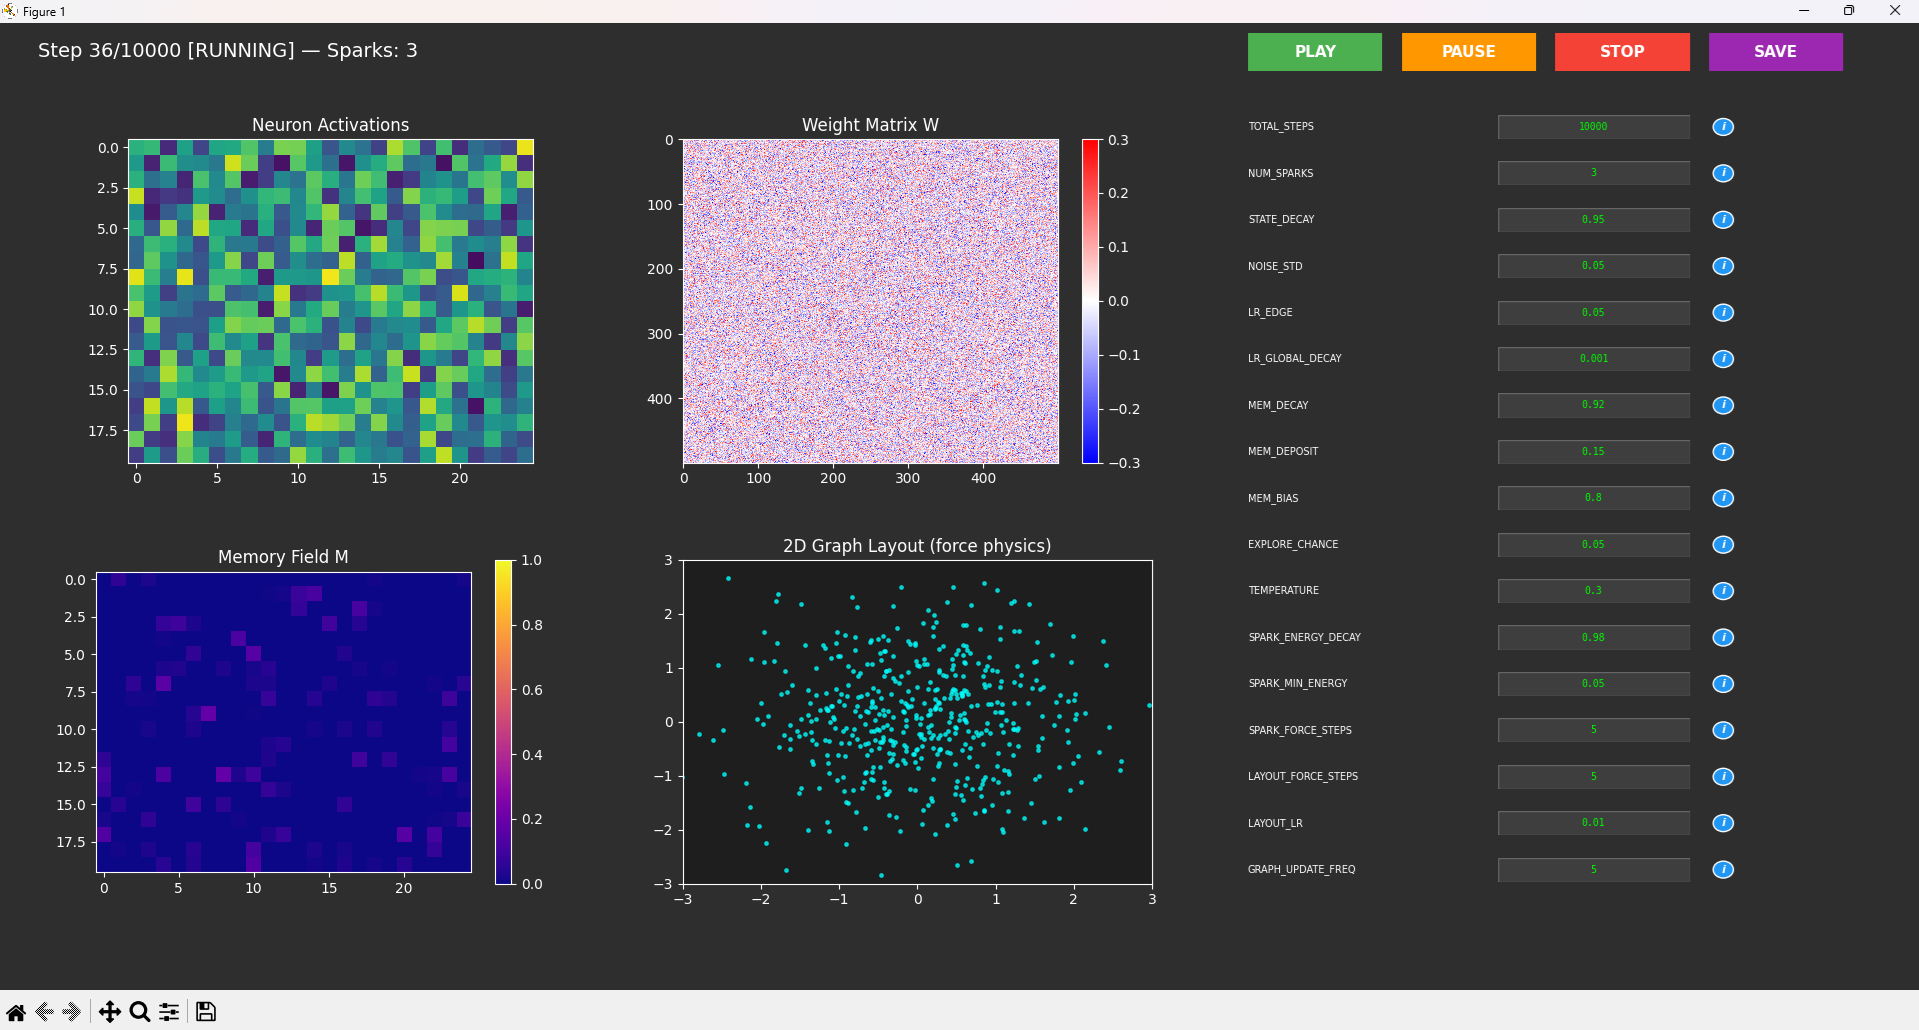
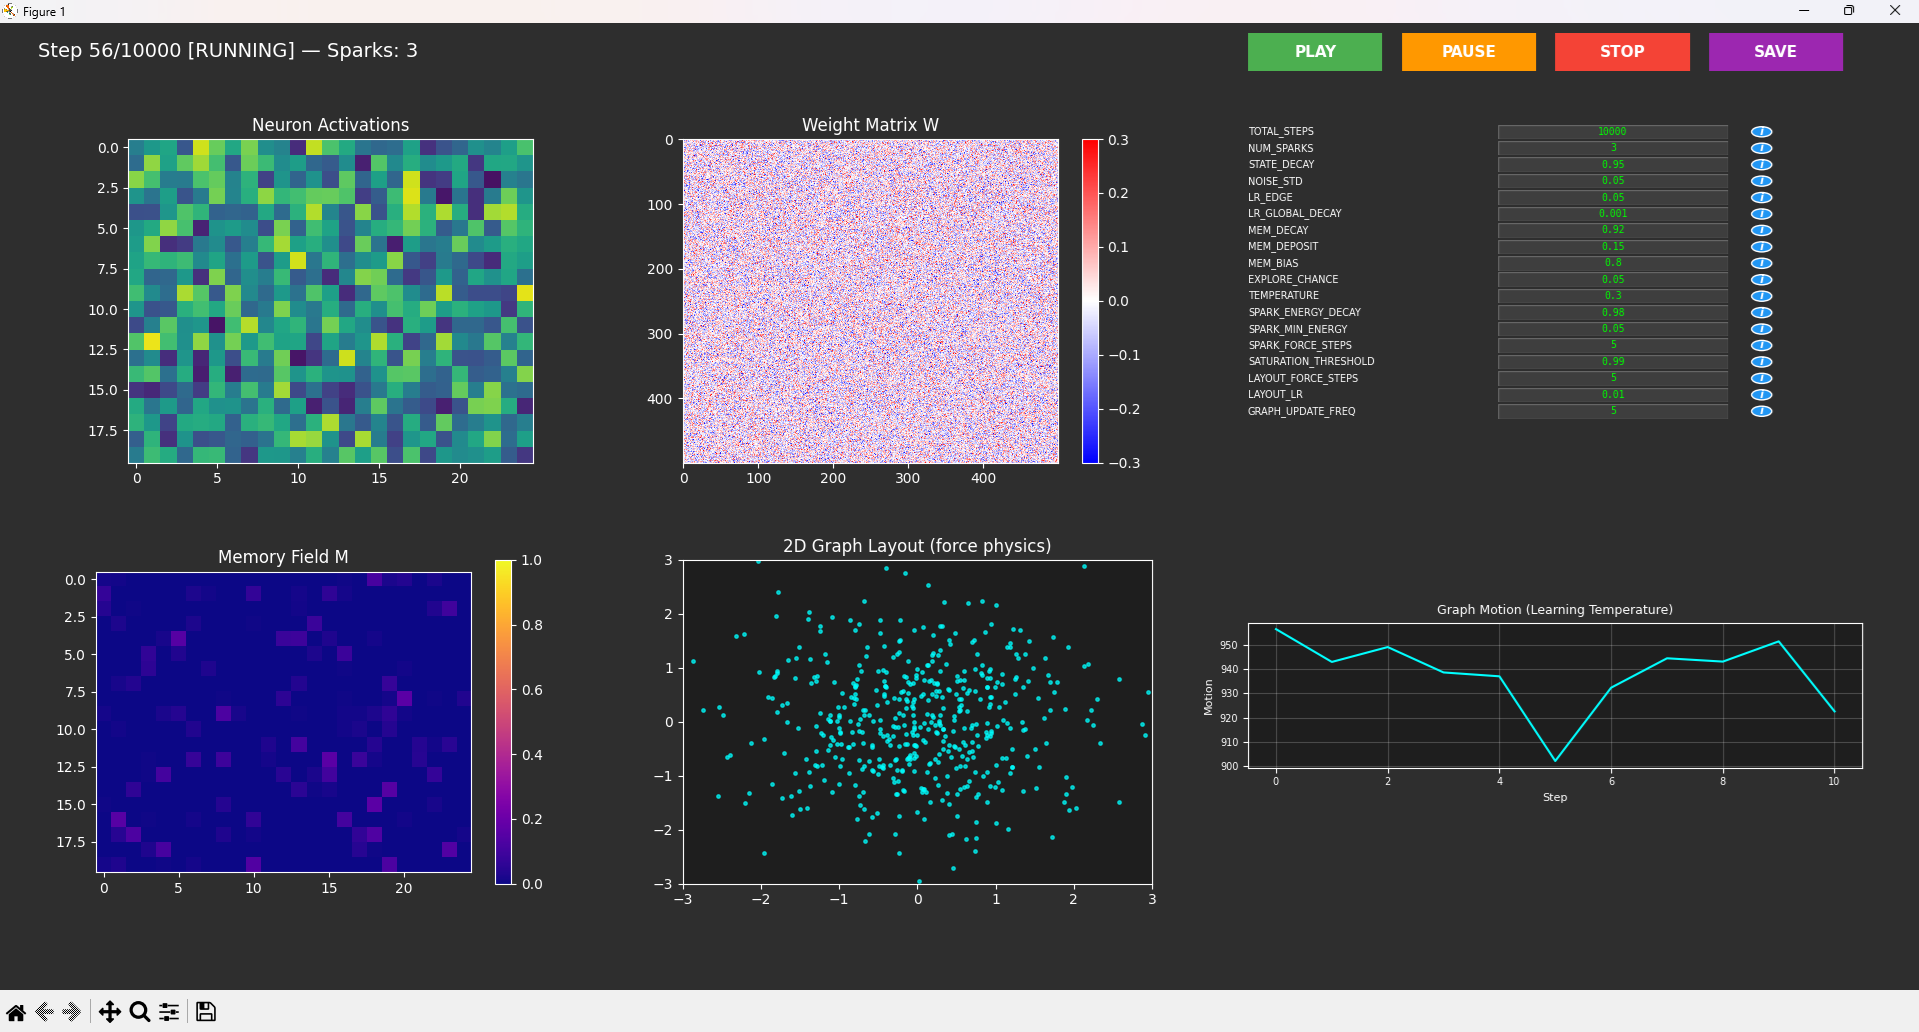
Neuron Saturation + new Visualisation
Spark avoid high weight wis saturated neuron.
new visual

diff --git a/sparknet_alpha.py b/sparknet_alpha.py
@@ -49,6 +49,7 @@ GRAPH_UPDATE_FREQ = 5  # Update graph every N steps
 SPARK_ENERGY_DECAY = 0.98
 SPARK_MIN_ENERGY = 0.05
 SPARK_FORCE_STEPS = 5
+SATURATION_THRESHOLD = 0.99  # Avoid neurons with activation above this value
 
 
 # ===================== FORCE-LAYOUT GRAPH =====================
@@ -101,12 +102,19 @@ class SparkNetAlpha(nn.Module):
         self.spark_energy = torch.ones(k, device=self.device)
         self.spark_age = torch.zeros(k, dtype=torch.long, device=self.device)
 
+        # Graph motion tracking - "Learning Temperature"
+        self.prev_graph_pos = None
+        self.motion_history = []
+
     def reset(self):
         self.s.zero_()
         self.M.zero_()
         self.spark_pos = torch.randint(0, self.n, (self.k,), device=self.device)
         self.spark_energy = torch.ones(self.k, device=self.device)
         self.spark_age = torch.zeros(self.k, dtype=torch.long, device=self.device)
+        # Reset motion tracking
+        self.prev_graph_pos = None
+        self.motion_history = []
 
     def update_spark_count(self, new_k):
         """Update the number of sparks and reinitialize"""
@@ -142,6 +150,11 @@ class SparkNetAlpha(nn.Module):
             # KEY INNOVATION: Combine weights with memory bias
             # Higher memory at target locations makes them more attractive
             logits = base_weights / TEMPERATURE + MEM_BIAS * self.M
+
+            # SATURATION AVOIDANCE: Filter out over-activated neurons
+            # This prevents sparks from repeatedly hitting the same hot spots
+            saturation_mask = self.s < SATURATION_THRESHOLD
+            logits = torch.where(saturation_mask, logits, torch.tensor(-1e9, device=self.device))
 
             # Sometimes ignore everything and explore randomly
             if torch.rand(1, device=self.device).item() < EXPLORE_CHANCE:
@@ -205,6 +218,7 @@ PARAM_INFO = {
     'SPARK_ENERGY_DECAY': 'Energy loss per step (0-1). Lower = sparks die faster',
     'SPARK_MIN_ENERGY': 'Energy threshold for respawn. Higher = respawn sooner',
     'SPARK_FORCE_STEPS': 'Steps a new spark forces full activation. Higher = stronger initial pulse',
+    'SATURATION_THRESHOLD': 'Activation level to avoid (0-1). Sparks skip neurons above this to prevent hot spots',
     'LAYOUT_FORCE_STEPS': 'Physics iterations for graph layout. Lower = faster but less stable',
     'LAYOUT_LR': 'Graph layout movement speed. Higher = faster settling but more jittery',
     'GRAPH_UPDATE_FREQ': 'Update graph every N steps. Lower = smoother animation but more CPU load'
@@ -338,13 +352,14 @@ def setup_controls(fig):
         ('SPARK_ENERGY_DECAY', SPARK_ENERGY_DECAY),
         ('SPARK_MIN_ENERGY', SPARK_MIN_ENERGY),
         ('SPARK_FORCE_STEPS', SPARK_FORCE_STEPS),
+        ('SATURATION_THRESHOLD', SATURATION_THRESHOLD),
         ('LAYOUT_FORCE_STEPS', LAYOUT_FORCE_STEPS),
         ('LAYOUT_LR', LAYOUT_LR),
         ('GRAPH_UPDATE_FREQ', GRAPH_UPDATE_FREQ),
     ]
 
     y_start = 0.88
-    y_step = 0.048  # Compact spacing
+    y_step = 0.017  # Compact with slight spacing
     controls['params'] = {}
     controls['info_boxes'] = {}
     controls['input_boxes'] = {}
@@ -353,13 +368,13 @@ def setup_controls(fig):
         y_pos = y_start - i * y_step
 
         # Parameter label (shorter)
-        ax_label = fig.add_axes([0.65, y_pos, 0.12, 0.025])
+        ax_label = fig.add_axes([0.65, y_pos, 0.12, 0.015])
         ax_label.text(0, 0.5, param_name, ha='left', va='center',
                       color='white', fontsize=7)
         ax_label.axis('off')
 
-        # Value input box (editable background)
-        ax_value = fig.add_axes([0.78, y_pos, 0.10, 0.025])
+        # Value input box (editable background) - wider for numbers
+        ax_value = fig.add_axes([0.78, y_pos, 0.12, 0.015])
         rect = Rectangle((0, 0), 1, 1, facecolor='#3e3e3e', edgecolor='#666666', linewidth=1)
         ax_value.add_patch(rect)
         value_text = ax_value.text(0.5, 0.5, f'{param_value}', ha='center', va='center',
@@ -371,7 +386,7 @@ def setup_controls(fig):
         controls['input_boxes'][param_name] = ax_value
 
         # Info button (smaller)
-        ax_info = fig.add_axes([0.89, y_pos, 0.015, 0.025])
+        ax_info = fig.add_axes([0.91, y_pos, 0.015, 0.015])
         info_circle = mpatches.Circle((0.5, 0.5), 0.35, facecolor='#2196F3',
                                       edgecolor='white', linewidth=1)
         ax_info.add_patch(info_circle)
@@ -394,6 +409,17 @@ def setup_controls(fig):
     ax_popup.axis('off')
     ax_popup.set_visible(False)
     controls['popup'] = (ax_popup, popup_text)
+
+    # Motion plot (aligned with main visualizations bottom) - "Learning Temperature"
+    ax_motion = fig.add_axes([0.65, 0.23, 0.32, 0.15])
+    ax_motion.set_facecolor('#1e1e1e')
+    ax_motion.set_title('Graph Motion (Learning Temperature)', color='white', fontsize=9)
+    ax_motion.set_xlabel('Step', color='white', fontsize=8)
+    ax_motion.set_ylabel('Motion', color='white', fontsize=8)
+    ax_motion.tick_params(colors='white', labelsize=7)
+    motion_line, = ax_motion.plot([], [], color='cyan', linewidth=1.5)
+    ax_motion.grid(True, alpha=0.2, color='white')
+    controls['motion'] = (ax_motion, motion_line)
 
     return controls
 
@@ -570,7 +596,7 @@ def apply_parameter_changes(state, controls, net):
     """Apply changed parameters and reset simulation"""
     global TOTAL_STEPS, NUM_SPARKS, STATE_DECAY, NOISE_STD, LR_EDGE, LR_GLOBAL_DECAY
     global MEM_DECAY, MEM_DEPOSIT, MEM_BIAS, EXPLORE_CHANCE, TEMPERATURE
-    global SPARK_ENERGY_DECAY, SPARK_MIN_ENERGY, SPARK_FORCE_STEPS
+    global SPARK_ENERGY_DECAY, SPARK_MIN_ENERGY, SPARK_FORCE_STEPS, SATURATION_THRESHOLD
     global LAYOUT_FORCE_STEPS, LAYOUT_LR, GRAPH_UPDATE_FREQ
 
     changed = False
@@ -619,6 +645,8 @@ def apply_parameter_changes(state, controls, net):
                 SPARK_MIN_ENERGY = new_value
             elif param_name == 'SPARK_FORCE_STEPS':
                 SPARK_FORCE_STEPS = new_value
+            elif param_name == 'SATURATION_THRESHOLD':
+                SATURATION_THRESHOLD = new_value
             elif param_name == 'LAYOUT_FORCE_STEPS':
                 LAYOUT_FORCE_STEPS = new_value
             elif param_name == 'LAYOUT_LR':
@@ -748,6 +776,21 @@ def main():
             # Update graph layout more frequently for visible motion
             if state.step % GRAPH_UPDATE_FREQ == 0:
                 layout = force_layout(net.W, steps=LAYOUT_FORCE_STEPS, lr=LAYOUT_LR)
+
+                # Track motion - "Learning Temperature"
+                if net.prev_graph_pos is not None:
+                    motion = np.sum(np.linalg.norm(layout - net.prev_graph_pos, axis=1))
+                    net.motion_history.append(motion)
+
+                    # Update motion plot
+                    ax_motion, motion_line = controls['motion']
+                    history_window = net.motion_history[-500:]  # Last 500 points
+                    motion_line.set_data(range(len(history_window)), history_window)
+                    ax_motion.relim()
+                    ax_motion.autoscale_view()
+
+                net.prev_graph_pos = layout.copy()
+
                 ax_g.clear()
                 ax_g.scatter(layout[:, 0], layout[:, 1], s=6, c='cyan', alpha=0.7)
                 ax_g.set_title("2D Graph Layout (force physics)", color='white', fontsize=12)

diff --git a/README.md b/README.md
@@ -15,11 +15,19 @@ python sparknet_alpha.py
 
 Mobile "sparks" traverse a neural network, strengthening connections as they move. A memory field biases future movement toward frequently-visited areas. The system self-organizes through Hebbian-like learning with global decay.
 
+**Recent Updates:**
+
+*Network Behavior:*
+- **Saturation-Aware Movement**: Sparks avoid over-activated neurons (>0.99) to prevent concentration in hot spots. Forces broader exploration and more distributed patterns instead of repeatedly visiting the same high-activity neurons.
+
+*New Visualization:*
+- **Learning Temperature Graph**: Tracks graph motion over time as a "thermometer" for learning activity. High motion = active reorganization, low motion = stable structure. Sudden drops reveal pattern formation moments.
+
 **Features:**
 - Interactive parameter editor with live feedback
 - Play/Pause/Stop controls
 - Auto GPU/CPU detection
-- Real-time visualization: neuron activations, weight matrix, memory field, force-directed graph
+- Real-time visualization: neuron activations, weight matrix, memory field, force-directed graph, learning temperature
 
 ## Repository Structure
 - **sparknet_alpha.py** - Main version with interactive interface
